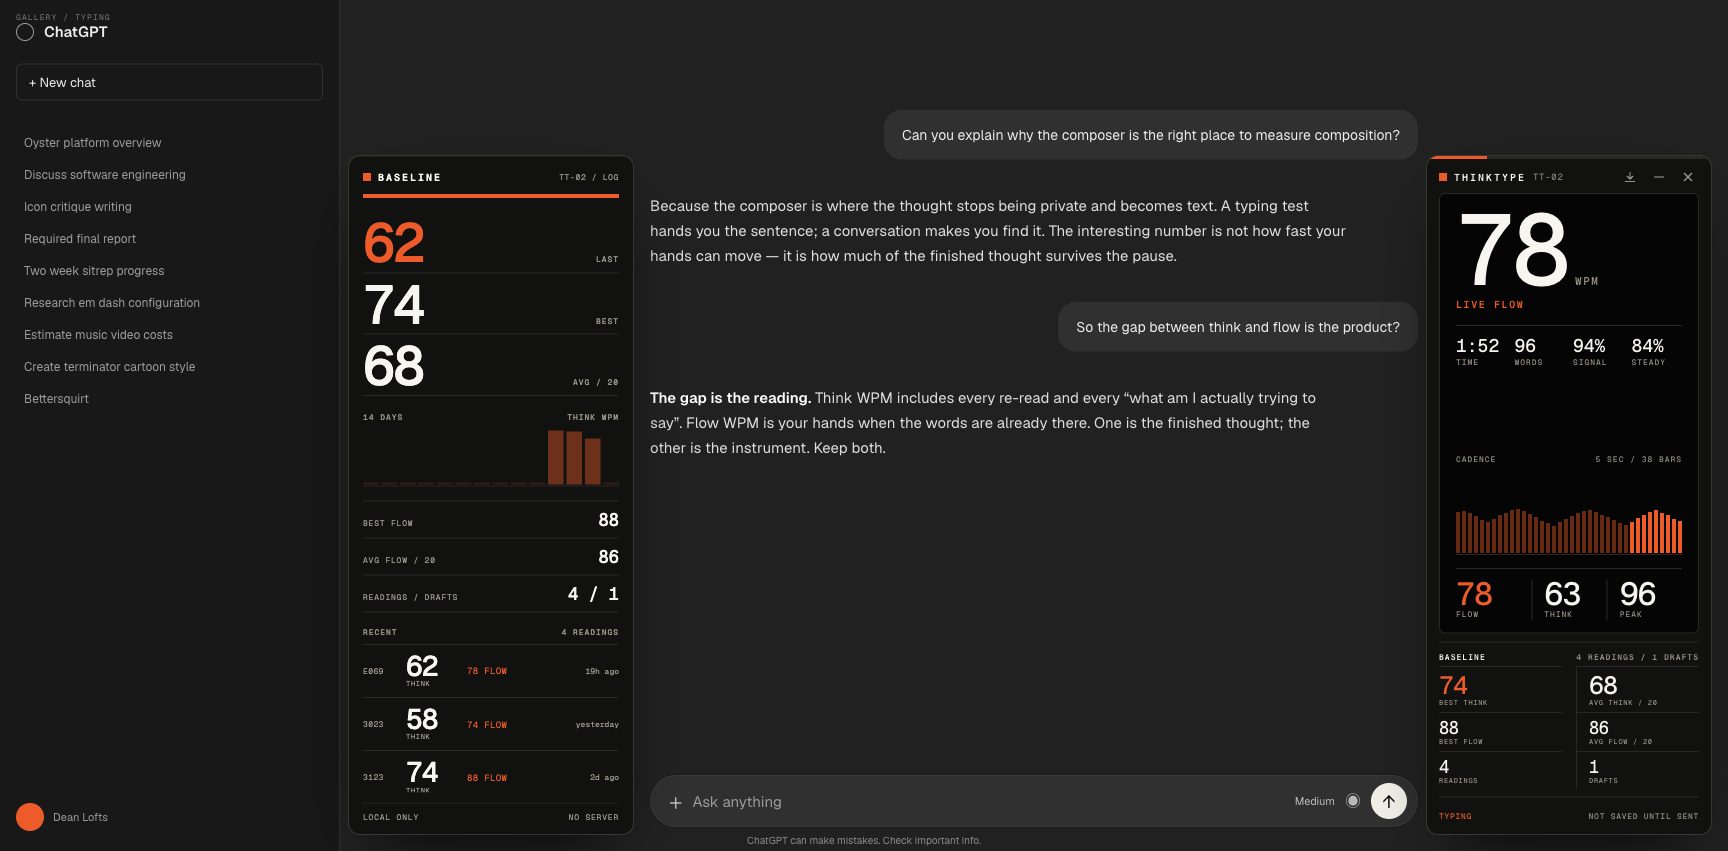
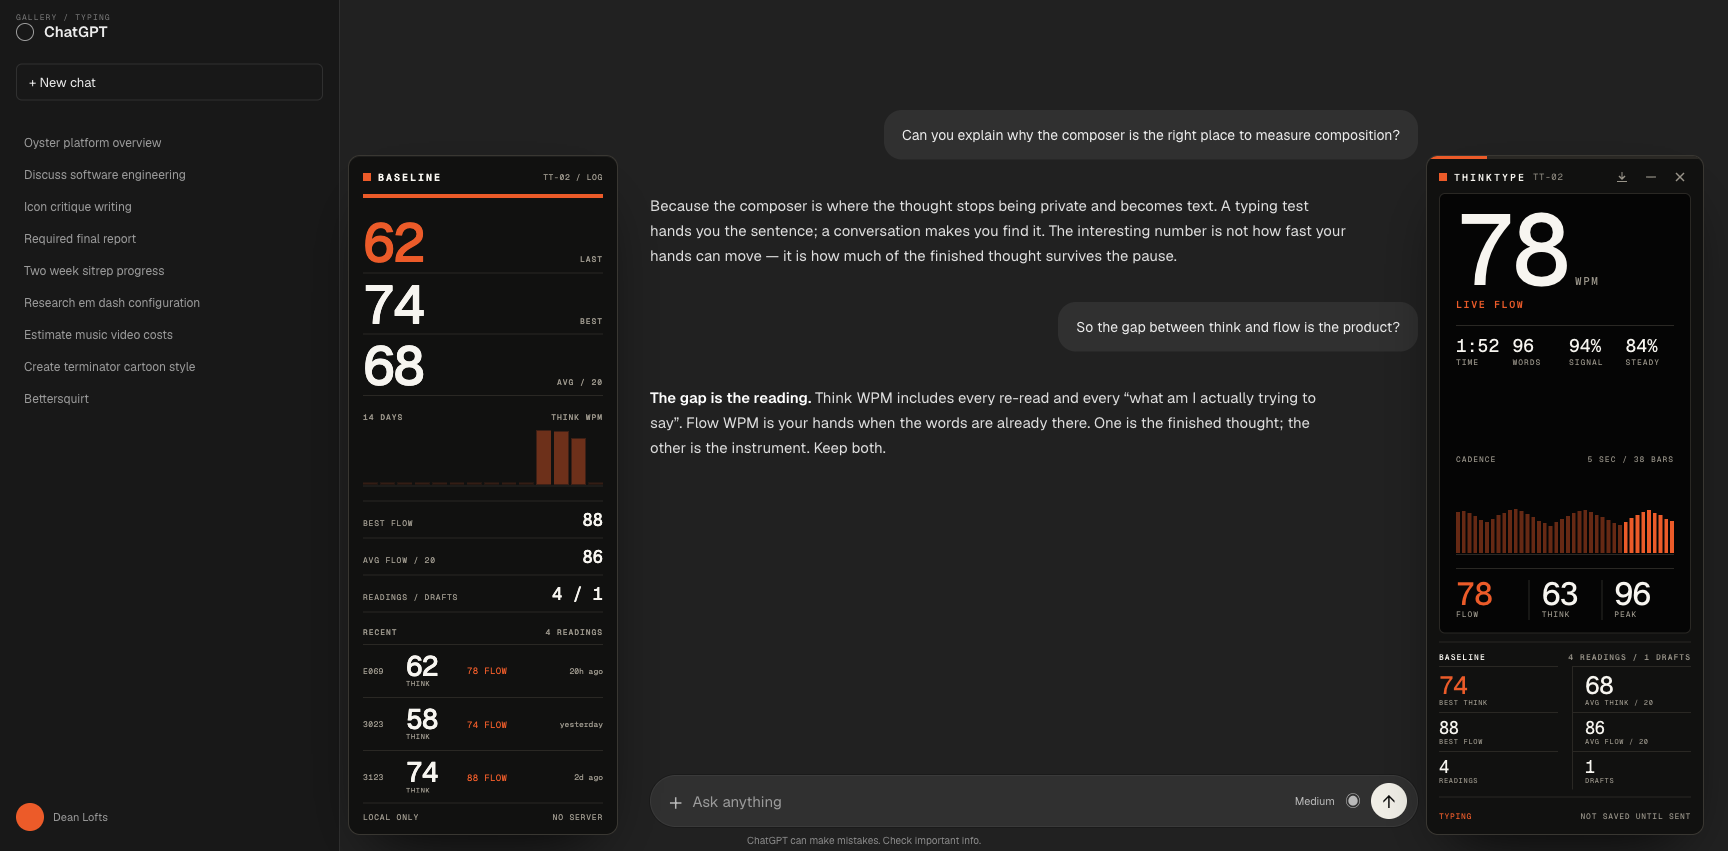
release: v0.2.2 stable dock

diff --git a/site/changelog.html b/site/changelog.html
@@ -6,7 +6,7 @@
     <title>Changelog — Thinktype</title>
     <meta
       name="description"
-      content="Thinktype release notes: the v0.2.1 night instrument, honest best and average history, three share card formats, and the static site."
+      content="Thinktype release notes: the v0.2.2 stable dock, honest best and average history, three share card formats, and the static site."
     />
     <link rel="canonical" href="https://thinktype.loftwah.com/changelog" />
     <meta name="theme-color" content="#f2efe6" />
@@ -81,13 +81,14 @@
           <div>
             <h1>Build notes, not marketing beats.</h1>
             <p class="meta">
-              CURRENTLY v0.2.1 / 11 NOVEMBER 2026 / SOURCE ON GITHUB / NO STORE SUBMISSION YET
+              CURRENTLY v0.2.2 / 11 NOVEMBER 2026 / SOURCE ON GITHUB / NO STORE SUBMISSION YET
             </p>
           </div>
         </header>
 
         <div class="doc-body">
           <nav class="doc-toc" aria-label="Releases">
+            <a href="#v022">v0.2.2</a>
             <a href="#v021">v0.2.1</a>
             <a href="#v020">v0.2.0</a>
             <a href="#v011">v0.1.1</a>
@@ -96,9 +97,34 @@
           </nav>
 
           <div>
+            <section class="release" id="v022">
+              <div>
+                <span class="version">v0.2.2 <span class="tag">CURRENT</span></span>
+                <span class="date">11 NOV 2026</span>
+              </div>
+              <div>
+                <h2>Stable dock.</h2>
+                <ul>
+                  <li>
+                    The HUD and rail no longer re-dock when the ChatGPT composer grows with text.
+                    They stay put; the composer gets a wider gutter buffer instead.
+                  </li>
+                  <li>
+                    Wider right margin and a 32px rail gap, so the first keystroke cannot slide the
+                    composer under the instrument.
+                  </li>
+                  <li>
+                    One fixed frame across idle, draft, typing, thinking, receipt and share; no size
+                    change when you start working.
+                  </li>
+                  <li>Still 38 tests, no new permissions, no network code.</li>
+                </ul>
+              </div>
+            </section>
+
             <section class="release" id="v021">
               <div>
-                <span class="version">v0.2.1 <span class="tag">CURRENT</span></span>
+                <span class="version">v0.2.1</span>
                 <span class="date">11 NOV 2026</span>
               </div>
               <div>
@@ -249,7 +275,7 @@
         </div>
         <div class="footer-bottom">
           <span>THINKTYPE.LOFTAH.COM / LOCAL ONLY / NO SERVER</span>
-          <span>© 2026 DEAN LOFTS <span class="orange">/ v0.2.1</span></span>
+          <span>© 2026 DEAN LOFTS <span class="orange">/ v0.2.2</span></span>
         </div>
       </div>
     </footer>

diff --git a/site/index.html b/site/index.html
@@ -58,7 +58,7 @@
         "applicationCategory": "ProductivityApplication",
         "applicationSubCategory": "Writing",
         "operatingSystem": "Chrome",
-        "softwareVersion": "0.2.1",
+        "softwareVersion": "0.2.2",
         "description": "A local-only Chrome extension that measures how fast you turn a thought into text in ChatGPT. Think WPM, flow WPM and a printed receipt.",
         "url": "https://thinktype.loftwah.com/",
         "downloadUrl": "https://github.com/loftwah/thinktype/releases/latest",
@@ -122,7 +122,7 @@
             <div class="status-line">
               <span class="dot" aria-hidden="true"></span>
               <span>CHROME MV3</span>
-              <span>v0.2.1</span>
+              <span>v0.2.2</span>
               <span>EARLY BUILD</span>
               <span>LOCAL ONLY</span>
             </div>
@@ -327,7 +327,7 @@
           <div>
             <h2 id="install-title">An early build, measured honestly.</h2>
             <p class="intro">
-              v0.2.1 is an early build. Load it unpacked from the release zip; the Chrome Web Store
+              v0.2.2 is an early build. Load it unpacked from the release zip; the Chrome Web Store
               listing is being prepared. There are no testimonials or benchmarks on this page
               because there are no users to quote yet.
             </p>
@@ -343,7 +343,7 @@
           </div>
           <div class="actions">
             <a class="button" href="https://github.com/loftwah/thinktype/releases/latest"
-              >Download v0.2.1 <span class="arrow">↓</span></a
+              >Download v0.2.2 <span class="arrow">↓</span></a
             >
             <a class="button ghost" href="/changelog">Changelog <span class="arrow">→</span></a>
           </div>
@@ -375,7 +375,7 @@
         </div>
         <div class="footer-bottom">
           <span>THINKTYPE.LOFTAH.COM / LOCAL ONLY / NO SERVER</span>
-          <span>© 2026 DEAN LOFTS <span class="orange">/ v0.2.1</span></span>
+          <span>© 2026 DEAN LOFTS <span class="orange">/ v0.2.2</span></span>
         </div>
       </div>
     </footer>

diff --git a/content/overlay.ts b/content/overlay.ts
@@ -912,10 +912,10 @@ export class Overlay {
 
     const side = rightGap >= leftGap ? 'right' : 'left';
     const gap = side === 'right' ? rightGap : leftGap;
-    if (gap >= minWidth + 16) {
-      const width = clamp(minWidth, gap - 24, target);
+    if (gap >= minWidth + 20) {
+      const width = clamp(minWidth, gap - 32, target);
       const railVisible = !this.customPos && side === 'right' && leftGap >= 300;
-      const railWidth = railVisible ? clamp(240, leftGap - 24, 320) : 0;
+      const railWidth = railVisible ? clamp(240, leftGap - 40, 320) : 0;
       return { width, side, railWidth, railVisible };
     }
 
@@ -957,11 +957,11 @@ export class Overlay {
       y = this.customPos.y;
       this.hud.dataset.anchor = 'custom';
     } else if (this.collapsed) {
-      x = metrics.side === 'right' ? viewportWidth - width - margin : sidebarWidth + margin;
+      x = metrics.side === 'right' ? viewportWidth - width - 24 : sidebarWidth + margin;
       y = viewportHeight - height - margin;
       this.hud.dataset.anchor = 'bottom';
     } else if (metrics.side === 'right') {
-      x = viewportWidth - width - margin;
+      x = viewportWidth - width - 24;
       y = viewportHeight - height - margin;
       this.hud.dataset.anchor = 'bottom';
     } else {
@@ -979,7 +979,7 @@ export class Overlay {
     const showRail = metrics.railVisible && !!composer && !this.collapsed && !this.customPos;
     if (showRail && composer) {
       const railWidth = metrics.railWidth;
-      const railX = Math.max(sidebarWidth + 8, composer.left - railWidth - 16);
+      const railX = Math.max(sidebarWidth + 8, composer.left - railWidth - 32);
       this.rail.style.setProperty('--tt-rail-w', `${railWidth}px`);
       this.rail.style.setProperty('--tt-rail-x', `${Math.round(railX)}px`);
       this.rail.style.setProperty('--tt-rail-y', `${Math.round(y)}px`);

diff --git a/demo/artboards.html b/demo/artboards.html
@@ -532,7 +532,7 @@
           Thinktype times how fast you turn a thought into text in ChatGPT. Two clocks — think WPM
           and flow WPM — printed as a receipt. Local-only.
         </p>
-        <div class="chip">CHROME MV3 <b>v0.2.1</b> LOCAL ONLY</div>
+        <div class="chip">CHROME MV3 <b>v0.2.2</b> LOCAL ONLY</div>
       </div>
       <img class="hud-img" src="./art-assets/hud-typing.png" width="300" height="505" alt="" />
       <span class="sample">SAMPLE READING / NOT A BENCHMARK</span>
@@ -561,7 +561,7 @@
           Think WPM is the finished thought. Flow WPM is your hands when the words are already
           there. The gap is the reading. No server, no account, no analytics.
         </p>
-        <div class="chip">CHROME MV3 <b>v0.2.1</b> LOCAL ONLY</div>
+        <div class="chip">CHROME MV3 <b>v0.2.2</b> LOCAL ONLY</div>
       </div>
       <div class="spec-row">
         <div class="spec"><b>62</b><span>THINK WPM</span></div>
@@ -595,7 +595,7 @@
           A typing instrument for original composition in ChatGPT. Two clocks, one receipt, every
           number local. Built with Chrome MV3, WXT and Canvas.
         </p>
-        <div class="chip">CHROME MV3 <b>v0.2.1</b> LOCAL ONLY</div>
+        <div class="chip">CHROME MV3 <b>v0.2.2</b> LOCAL ONLY</div>
       </div>
       <div class="spec-row">
         <div class="spec"><b>62</b><span>THINK WPM</span></div>

diff --git a/entrypoints/content.ts b/entrypoints/content.ts
@@ -96,14 +96,21 @@ async function boot(): Promise<void> {
     }
   };
 
+  let lastSidebarWidth = document.querySelector('main')?.getBoundingClientRect().left ?? 0;
   const ensureComposer = (): void => {
+    const mainLeft = document.querySelector('main')?.getBoundingClientRect().left ?? 0;
+    if (Math.abs(mainLeft - lastSidebarWidth) > 2) {
+      // The sidebar opened or closed. Re-dock, but do not chase the composer
+      // as it grows with text; that would make the instrument jump mid-sentence.
+      lastSidebarWidth = mainLeft;
+      overlay.refreshPosition();
+    }
     const el = findComposer();
     if (!el) {
       syncVisibility();
       return;
     }
     if (el === currentEl && tracker && el.isConnected) {
-      overlay.refreshPosition();
       syncVisibility();
       return;
     }

diff --git a/site/metrics.html b/site/metrics.html
@@ -81,7 +81,7 @@
           <div>
             <h1>How Thinktype measures typing.</h1>
             <p class="meta">
-              TWO CLOCKS / AN EXPLICIT IDLE MODEL / AN HONEST SIGNAL SCORE / v0.2.1
+              TWO CLOCKS / AN EXPLICIT IDLE MODEL / AN HONEST SIGNAL SCORE / v0.2.2
             </p>
           </div>
         </header>
@@ -333,7 +333,7 @@ averageFlowWpm  = sum(insertedChars) / 5 / (sum(activeMs) / 60000)</code></pre>
         </div>
         <div class="footer-bottom">
           <span>THINKTYPE.LOFTAH.COM / LOCAL ONLY / NO SERVER</span>
-          <span>© 2026 DEAN LOFTS <span class="orange">/ v0.2.1</span></span>
+          <span>© 2026 DEAN LOFTS <span class="orange">/ v0.2.2</span></span>
         </div>
       </div>
     </footer>

diff --git a/site/privacy.html b/site/privacy.html
@@ -81,7 +81,7 @@
           <div>
             <h1>Everything stays in your browser.</h1>
             <p class="meta">
-              EFFECTIVE 11 NOVEMBER 2026 / THINKTYPE v0.2.1 / CHROME MV3 / LOCAL ONLY
+              EFFECTIVE 11 NOVEMBER 2026 / THINKTYPE v0.2.2 / CHROME MV3 / LOCAL ONLY
             </p>
           </div>
         </header>
@@ -222,7 +222,7 @@
         </div>
         <div class="footer-bottom">
           <span>THINKTYPE.LOFTAH.COM / LOCAL ONLY / NO SERVER</span>
-          <span>© 2026 DEAN LOFTS <span class="orange">/ v0.2.1</span></span>
+          <span>© 2026 DEAN LOFTS <span class="orange">/ v0.2.2</span></span>
         </div>
       </div>
     </footer>

diff --git a/demo/store-popup.html b/demo/store-popup.html
@@ -193,7 +193,7 @@
         <div><span>DETAIL</span><b>RECEIPT + 3 SHARE FORMATS</b></div>
       </div>
       <p class="caption" style="position: static; right: auto; top: auto; margin-top: 22px">
-        SAMPLE DATA / NOT A BENCHMARK / v0.2.1
+        SAMPLE DATA / NOT A BENCHMARK / v0.2.2
       </p>
     </div>
     <div class="popup">
@@ -207,7 +207,7 @@
     <div class="caption">POPUP / 380 × 600 / SAMPLE DATA</div>
     <div class="foot">
       <span>THINKTYPE.LOFTAH.COM / LOCAL ONLY / NO SERVER</span>
-      <span>CHROME MV3 / <span class="orange">v0.2.1</span></span>
+      <span>CHROME MV3 / <span class="orange">v0.2.2</span></span>
     </div>
   </body>
 </html>

diff --git a/demo/popup-harness.html b/demo/popup-harness.html
@@ -182,7 +182,7 @@
       };
       window.chrome = {
         runtime: {
-          getManifest: () => ({ version: '0.2.1' }),
+          getManifest: () => ({ version: '0.2.2' }),
           openOptionsPage: () => {},
           sendMessage: () => Promise.resolve(),
         },

diff --git a/CHROMEWEBSTORE.md b/CHROMEWEBSTORE.md
@@ -150,7 +150,8 @@ https://github.com/loftwah/thinktype
 
 | Version | Date | Changes | Status |
 | --- | --- | --- | --- |
-| 0.2.1 | 2026-11-11 | Anodised black fixed-frame HUD, 360/286/142 side-gutter layouts, left baseline rail at wide widths, 120px primary, receipt cadence chart, share sheet inside the fixed frame, no size change between states, 38 tests | Draft — not submitted |
+| 0.2.2 | 2026-11-11 | Stable dock: the HUD and rail no longer re-dock as the ChatGPT composer grows, wider gutter buffers, fixed 680px frame across all states, 38 tests | Draft — not submitted |
+| 0.2.1 | 2026-11-11 | Anodised black fixed-frame HUD, 360/286/142 side-gutter layouts, left baseline rail at wide widths, 120px primary, receipt cadence chart, share sheet inside the fixed frame, no size change between states, 38 tests | Draft — superseded by 0.2.2 |
 | 0.2.0 | 2026-11-11 | Vertical bottom-anchored HUD, THINKING hold, LAST/BEST/AVG idle, durable best/flow/peak history, weighted 20-session average, eligibility gates, draft and IME buckets, three share formats, share sheet, static site, 38 tests | Draft — superseded by 0.2.1 |
 | 0.1.1 | 2026-11-11 | Draft-aware sessions, larger paper HUD with black LCD, smart docking beside the composer, removed the theme setting, 27 tests | Draft |
 | 0.1.0 | 2026-11-10 | Initial local-first typing measurement extension, HUD, receipts, history, settings | Draft |

diff --git a/docs/RELEASE_NOTES_0.2.2.md b/docs/RELEASE_NOTES_0.2.2.md
@@ -1,0 +1,22 @@
+# Thinktype v0.2.2 — stable dock
+
+A small layout fix on top of the night instrument.
+
+## What changed
+
+- The HUD and baseline rail no longer re-dock while the ChatGPT composer grows with text. The
+  instrument stays exactly where it is; the composer gets the room.
+- Wider gutter buffers: 32px beside the rail, 24px from the viewport edge for the live panel, and a
+  32px reserve in the rail width. The first keystroke cannot slide the composer under the instrument.
+- The fixed 680px frame remains: idle, draft, typing, thinking, receipt and share all use the same
+  360×680 panel.
+- 38 tests, no new permissions, no network code.
+
+## Install
+
+Use the `unpacked` folder at the same path, or replace it with the zip below. If Thinktype is
+already loaded, click **Reload** in `chrome://extensions`, then refresh ChatGPT. The version should
+read **0.2.2**.
+
+Full method: https://thinktype.loftwah.com/metrics
+Privacy: https://thinktype.loftwah.com/privacy

diff --git a/README.md b/README.md
@@ -27,7 +27,7 @@ about — how quickly a finished idea becomes text — and shows both clocks:
 The gap between them is the interesting part. A pause is not a reset: the HUD holds the live reading
 in THINKING and the idle state shows your last, best and rolling average.
 
-**Live:** https://thinktype.loftwah.com · **Current build:** v0.2.1 (early, unpacked install)
+**Live:** https://thinktype.loftwah.com · **Current build:** v0.2.2 (early, unpacked install)
 
 ## The instrument
 
@@ -178,7 +178,7 @@ images.
   included in your export.
 - Export or clear everything from the options page.
 - Permissions: `storage`, `clipboardWrite`, and the two ChatGPT host permissions. No new permissions
-  in v0.2.1.
+  in v0.2.2.
 
 Canonical policy: https://thinktype.loftwah.com/privacy · Source: [docs/PRIVACY.md](docs/PRIVACY.md)
 
